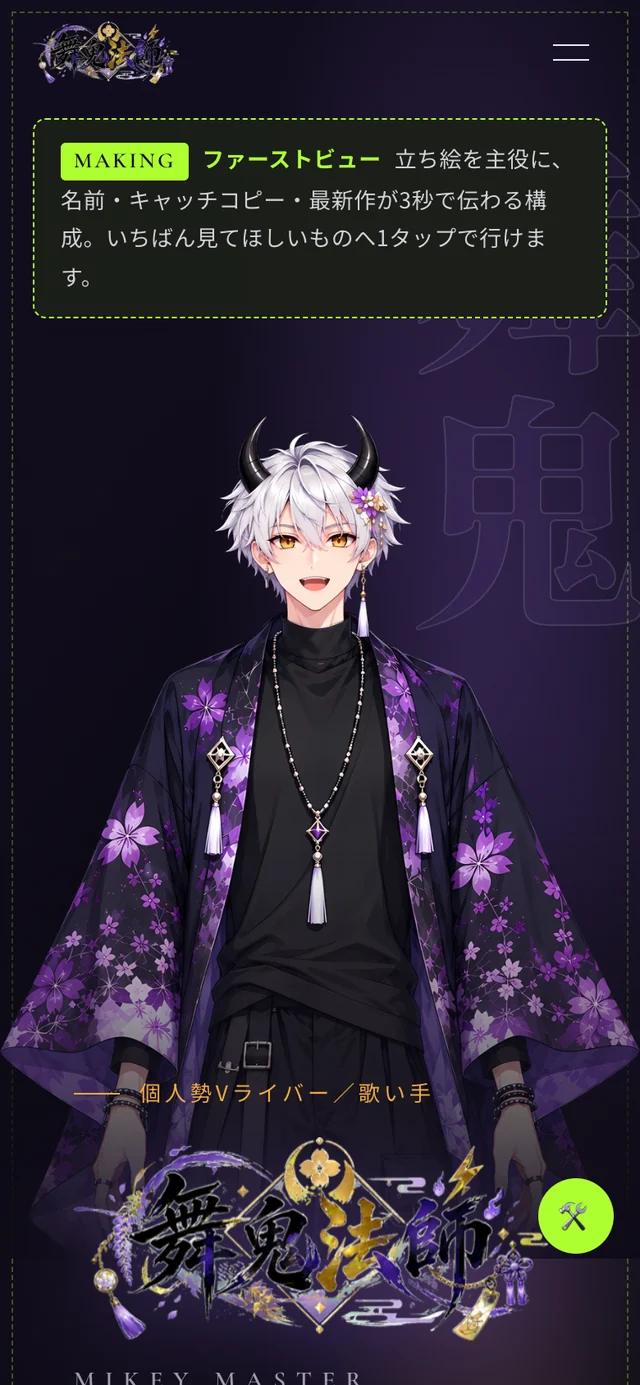
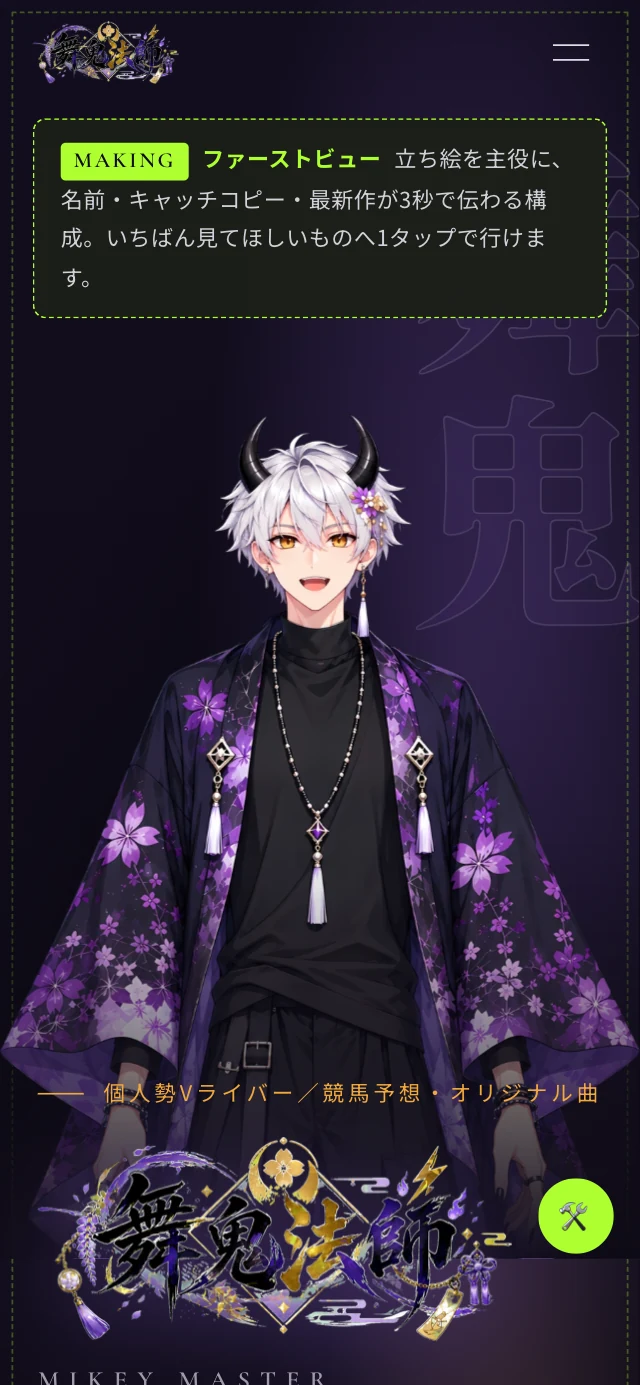
feat: 肩書きから「歌い手」を外し「個人勢Vライバー／競馬予想・オリジナル曲」に統一（サイト・LP・ゲームの説明文・OGP画像・LPの作例画像）

diff --git a/index.html b/index.html
@@ -3,21 +3,21 @@
 <head>
   <meta charset="UTF-8">
   <meta name="viewport" content="width=device-width, initial-scale=1.0, viewport-fit=cover">
-  <title>舞鬼法師（まいきー）｜歌い手・Vライバー 公式サイト</title>
-  <meta name="description" content="舞鬼法師（まいきー / MIKEY MASTER）公式サイト。歌ってみた・オリジナル曲・競馬予想で活動する個人勢Vライバー / 歌い手。4thオリジナル曲『Wear It Well』公開、『Neon Tide』『August Fade』『Coastline Radio』も配信中。">
+  <title>舞鬼法師（まいきー）｜個人勢Vライバー 公式サイト</title>
+  <meta name="description" content="舞鬼法師（まいきー / MIKEY MASTER）公式サイト。競馬予想・オリジナル曲・歌ってみたで活動する個人勢Vライバー。4thオリジナル曲『Wear It Well』公開、『Neon Tide』『August Fade』『Coastline Radio』も配信中。">
   <meta name="theme-color" content="#0e0b16">
   <link rel="canonical" href="https://mikey-master.pages.dev/">
 
   <!-- OGP -->
   <meta property="og:type" content="website">
   <meta property="og:url" content="https://mikey-master.pages.dev/">
-  <meta property="og:title" content="舞鬼法師（まいきー）｜歌い手・Vライバー 公式サイト">
-  <meta property="og:description" content="歌ってみた・オリジナル曲・競馬予想で活動する個人勢Vライバー / 歌い手。4thオリジナル曲『Wear It Well』公開、『Neon Tide』『August Fade』『Coastline Radio』も配信中。">
-  <meta property="og:image" content="https://mikey-master.pages.dev/assets/images/og/og-image.png">
+  <meta property="og:title" content="舞鬼法師（まいきー）｜個人勢Vライバー 公式サイト">
+  <meta property="og:description" content="競馬予想・オリジナル曲・歌ってみたで活動する個人勢Vライバー。4thオリジナル曲『Wear It Well』公開、『Neon Tide』『August Fade』『Coastline Radio』も配信中。">
+  <meta property="og:image" content="https://mikey-master.pages.dev/assets/images/og/og-image.png?v=2">
   <meta property="og:image:width" content="1200">
   <meta property="og:image:height" content="630">
   <meta property="og:image:alt" content="舞鬼法師 公式サイト。銀髪に鬼の角、紫の羽織の立ち絵と筆文字ロゴ">
-  <meta name="twitter:image" content="https://mikey-master.pages.dev/assets/images/og/og-image.png">
+  <meta name="twitter:image" content="https://mikey-master.pages.dev/assets/images/og/og-image.png?v=2">
   <meta property="og:site_name" content="舞鬼法師 | MIKEY MASTER">
   <meta name="twitter:card" content="summary_large_image">
   <meta name="twitter:site" content="@mai1k_master">
@@ -36,8 +36,8 @@
         "name": "舞鬼法師",
         "alternateName": ["まいきー", "MIKEY MASTER"],
         "url": "https://mikey-master.pages.dev/",
-        "image": "https://mikey-master.pages.dev/assets/images/og/og-image.png",
-        "description": "オリジナル曲・歌ってみた・競馬予想で活動する個人勢Vライバー / 歌い手",
+        "image": "https://mikey-master.pages.dev/assets/images/og/og-image.png?v=2",
+        "description": "競馬予想・オリジナル曲・歌ってみたで活動する個人勢Vライバー",
         "sameAs": [
           "https://x.com/mai1k_master",
           "https://www.youtube.com/@mikey-master",
@@ -149,7 +149,7 @@
       </div>
       <div class="hero-inner">
         <div class="hero-text">
-          <p class="hero-eyebrow">個人勢Vライバー／歌い手</p>
+          <p class="hero-eyebrow">個人勢Vライバー／競馬予想・オリジナル曲</p>
           <h1 class="hero-title">
             <img src="assets/images/maiki-logo.png" alt="舞鬼法師" width="480" height="206">
             <span class="hero-title-en">MIKEY MASTER</span>

diff --git a/docs/og-image.html b/docs/og-image.html
@@ -1,0 +1,22 @@
+<!doctype html><html lang="ja"><meta charset="utf-8">
+<!-- 公式サイトのOGP画像（1200x630）の元。Chrome で 1200x630 に書き出して assets/images/og/og-image.png にする -->
+<link href="https://fonts.googleapis.com/css2?family=Shippori+Mincho+B1:wght@700;800&family=Noto+Sans+JP:wght@500;700&family=Cormorant+Garamond:wght@500;600&display=swap" rel="stylesheet">
+<style>
+*{margin:0;padding:0;box-sizing:border-box}
+body{width:1200px;height:630px;overflow:hidden;position:relative;background:#120d1c;color:#f1ecf7;font-family:'Noto Sans JP',sans-serif}
+.bg{position:absolute;inset:0;background:radial-gradient(700px 520px at 76% 45%,rgba(104,62,170,.55),transparent 65%),radial-gradient(600px 400px at 10% 100%,rgba(242,169,59,.10),transparent 60%),linear-gradient(180deg,#171024,#0e0a16)}
+.kanji{position:absolute;right:20px;top:-18px;font-family:'Shippori Mincho B1',serif;font-weight:800;font-size:320px;line-height:1.02;color:rgba(190,160,240,.085);text-align:center}
+.kv{position:absolute;right:70px;top:6px;height:1180px}
+.left{position:absolute;left:72px;top:112px;width:560px}
+.eyebrow{display:flex;align-items:center;gap:14px;color:#f2a93b;font-weight:700;font-size:23px;letter-spacing:.12em;white-space:nowrap}
+.eyebrow:before{content:"";flex:0 0 34px;height:2px;background:currentColor}
+.logo{display:block;width:430px;margin:18px 0 6px -14px}
+.en{font-family:'Cormorant Garamond',serif;font-weight:600;font-size:36px;letter-spacing:.24em;color:#d9d2e6}
+.catch{font-family:'Shippori Mincho B1',serif;font-weight:800;font-size:52px;letter-spacing:.14em;margin-top:38px}
+.url{position:absolute;left:72px;bottom:54px;font-family:'Cormorant Garamond',serif;font-size:26px;letter-spacing:.1em;color:#9d90b5}
+</style>
+<body><div class="bg"></div><div class="kanji">舞<br>鬼</div>
+<img class="kv" src="../assets/images/kv-maiki.webp">
+<div class="left"><div class="eyebrow">個人勢Vライバー／競馬予想・オリジナル曲</div>
+<img class="logo" src="../assets/images/maiki-logo.png"><div class="en">MIKEY MASTER</div><div class="catch">舞う鬼、ここに。</div></div>
+<div class="url">mikey-master.pages.dev</div></body></html>

diff --git a/lp.html b/lp.html
@@ -573,7 +573,7 @@
           <div class="work-meta">
             <span class="tag">制作者本人のサイト</span>
             <h3>舞鬼法師（まいきー）公式サイト</h3>
-            <p>歌い手・Vライバーとしての活動まとめ。楽曲・配信・SNSへの導線と、お仕事・コラボの窓口をまとめています。</p>
+            <p>個人勢Vライバーとしての活動まとめ。楽曲・配信・SNSへの導線と、お仕事・コラボの窓口をまとめています。</p>
             <dl>
               <dt>構成</dt><dd>1ページ構成＋ブラウザゲーム3本</dd>
               <dt>公開</dt><dd>Cloudflare Pages（サーバー代0円）</dd>
@@ -619,7 +619,7 @@
         <div class="about">
           <div class="reveal">
             <div class="about-name">MIKEY MASTER</div>
-            <p class="about-name-ja">舞鬼法師（まいきー）／ 個人勢の歌い手・Vライバー</p>
+            <p class="about-name-ja">舞鬼法師（まいきー）／ 個人勢のVライバー</p>
             <img class="about-chara" src="assets/images/chibi-letter.webp" width="260" height="305" alt="" loading="lazy">
           </div>
           <div class="reveal">

diff --git a/love-game.html b/love-game.html
@@ -4,7 +4,7 @@
   <meta charset="UTF-8">
   <meta name="viewport" content="width=device-width, initial-scale=1.0">
   <title>競馬場の鬼｜舞鬼法師（まいきー）恋愛ミニゲーム</title>
-  <meta name="description" content="舞鬼法師（まいきー）公式サイトの恋愛ミニゲーム「競馬場の鬼」。歌い手・Vライバー舞鬼法師と遊べる無料ブラウザゲーム。">
+  <meta name="description" content="舞鬼法師（まいきー）公式サイトの恋愛ミニゲーム「競馬場の鬼」。個人勢Vライバー舞鬼法師と遊べる無料ブラウザゲーム。">
   <link rel="canonical" href="https://mikey-master.pages.dev/love-game">
   <!-- OGP（X / Facebook / LINE 等でのリンク共有用） -->
   <meta property="og:type" content="website">

diff --git a/game.html b/game.html
@@ -4,7 +4,7 @@
   <meta charset="UTF-8">
   <meta name="viewport" content="width=device-width, initial-scale=1.0">
   <title>鬼の道中｜舞鬼法師（まいきー）ミニゲーム</title>
-  <meta name="description" content="舞鬼法師（まいきー）公式サイトのブラウザミニゲーム「鬼の道中」。歌い手・Vライバー舞鬼法師と遊べる無料ゲーム。">
+  <meta name="description" content="舞鬼法師（まいきー）公式サイトのブラウザミニゲーム「鬼の道中」。個人勢Vライバー舞鬼法師と遊べる無料ゲーム。">
   <link rel="canonical" href="https://mikey-master.pages.dev/game">
   <!-- OGP（X / Facebook / LINE 等でのリンク共有用） -->
   <meta property="og:type" content="website">
